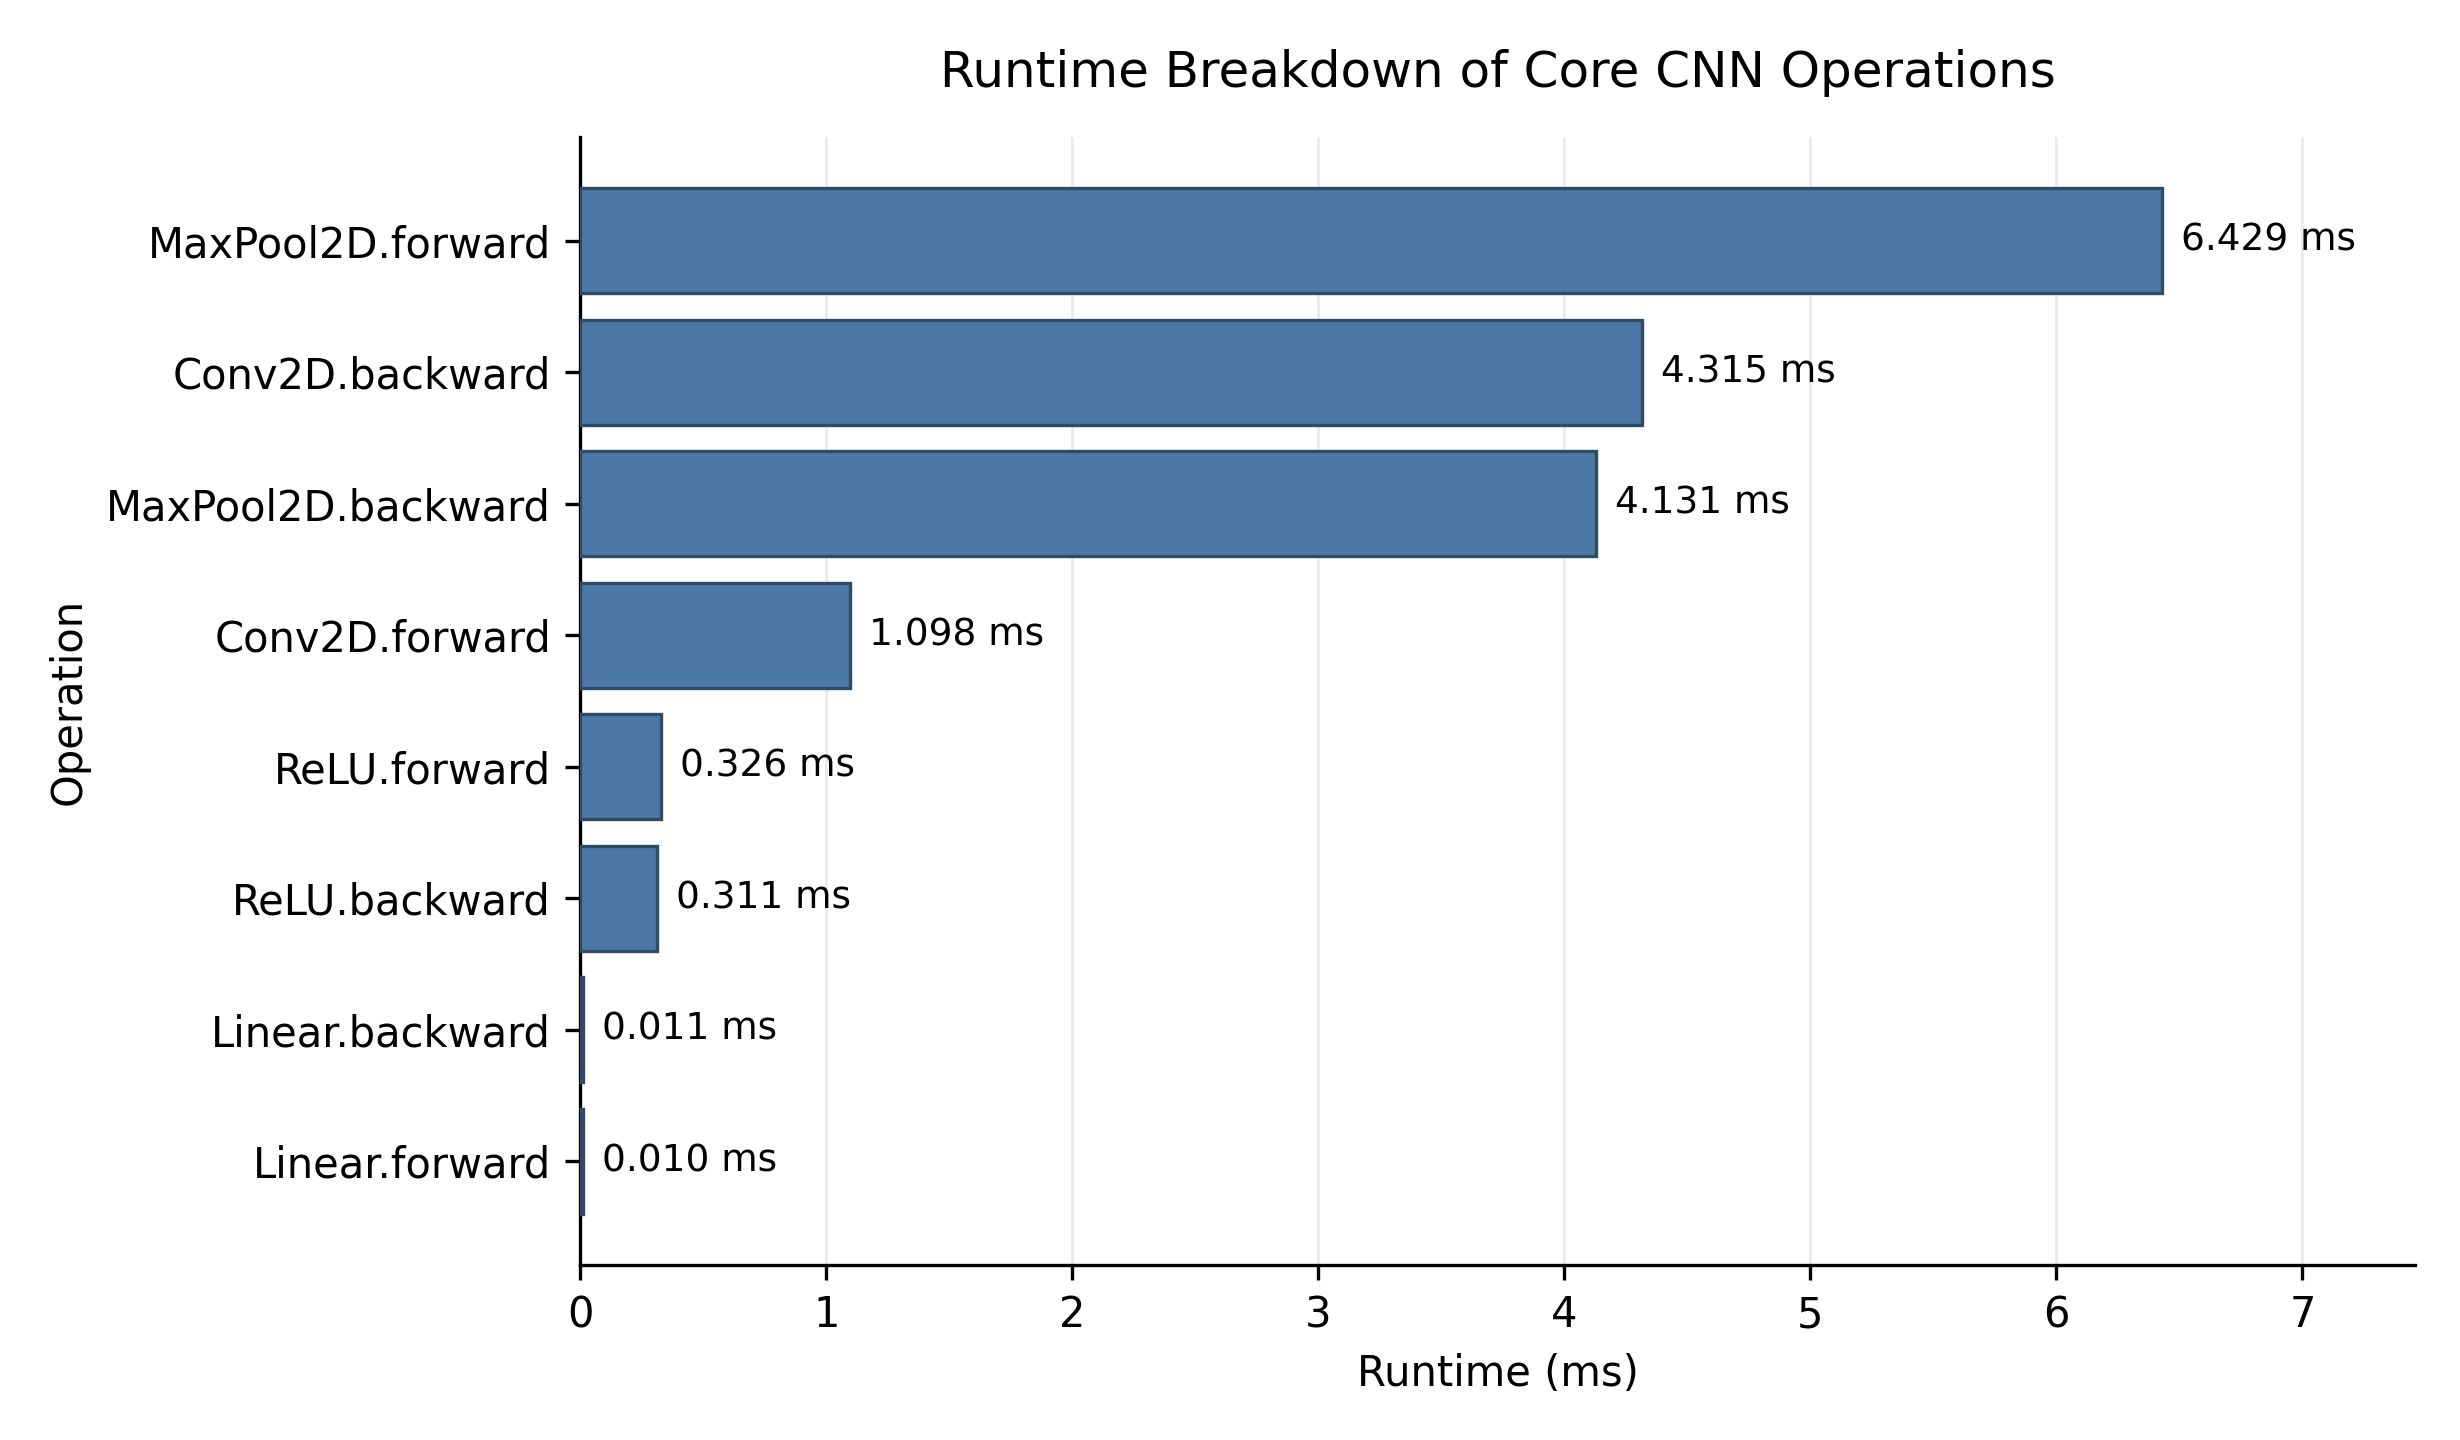
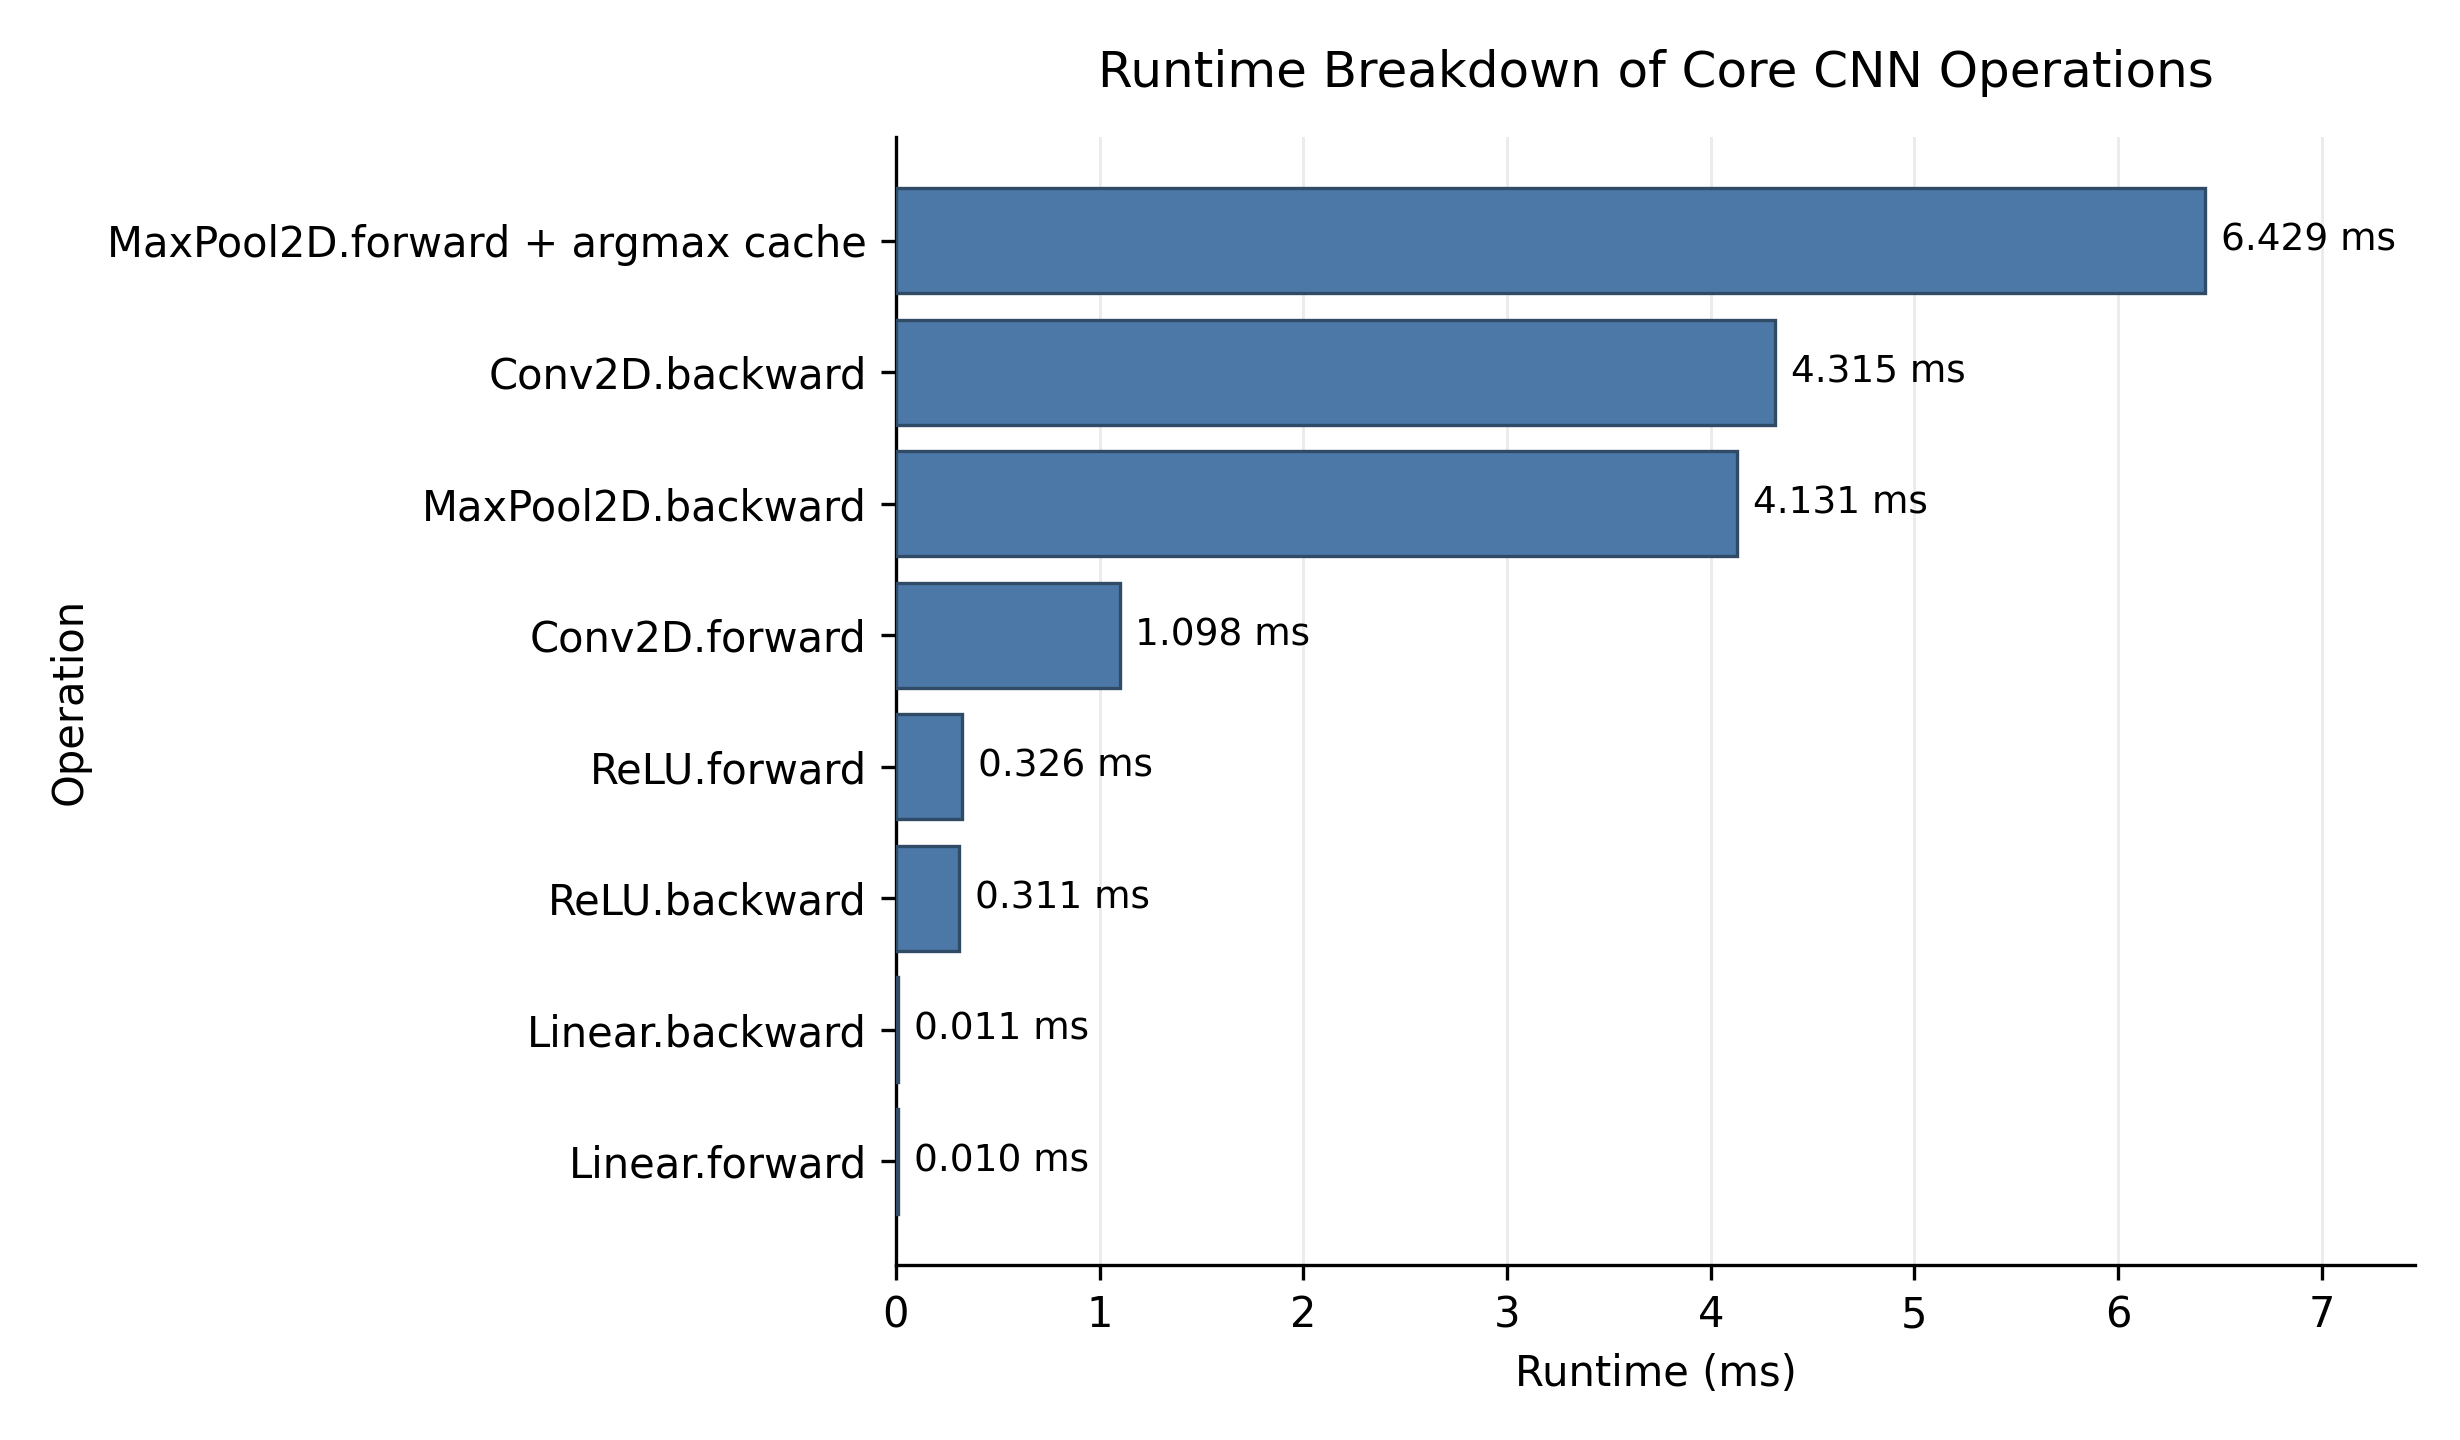
figures: clarify maxpool runtime label

diff --git a/experiments/runtime/benchmark_runtime_breakdown.py b/experiments/runtime/benchmark_runtime_breakdown.py
@@ -300,7 +300,12 @@ def plot_runtime_breakdown(
         raise ValueError("Runtime results must not be empty.")
 
     sorted_results = sort_runtime_results(results)
-    labels = [result.operation for result in sorted_results]
+    labels = [
+        "MaxPool2D.forward + argmax cache"
+        if result.operation == "MaxPool2D.forward"
+        else result.operation
+        for result in sorted_results
+    ]
     runtimes = [result.runtime_ms for result in sorted_results]
 
     output_png = Path(png_path)
